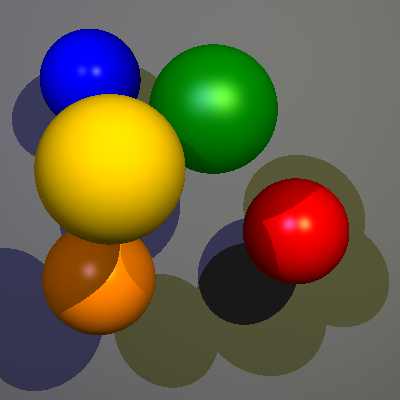
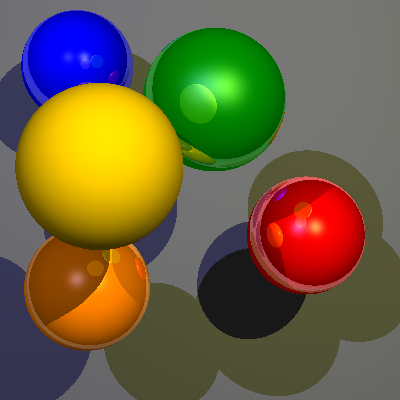
YAML Parsing and camera fixes

diff --git a/scene.cpp b/scene.cpp
@@ -174,47 +174,7 @@ void Scene::render(Image &img, string mode)
 {
     int w = img.width();
     int h = img.height();
-    if (mode == "phong")
-    {
-        if (antiAliasingEnabled)
-        {
-            for (int y = 0; y < h; y++)
-            {
-                for (int x = 0; x < w; x++)
-                {
-                    Color pixelColor(0.0f,0.0f,0.0f);
-                    for(int subY = 0; subY < 4; subY++)
-                    {
-                        for(int subX = 0; subX < 4; subX++)
-                        {
-                            Point pixel(x+((double)subX/4), h-1-y+((double)subY/4), 0);
-                            Ray ray(eye, (pixel-eye).normalized());
-                            Color subColor = trace(ray, maxRecursionDepth);
-                            pixelColor = pixelColor + subColor;
-                        }
-                    }
-                    pixelColor = pixelColor/(double)16; //grid of 4x4
-                    pixelColor.clamp();
-                    img(x,y) = pixelColor;
-                }
-            }
-        }
-        else
-        {
-            for (int y = 0; y < h; y++)
-            {
-                for (int x = 0; x < w; x++)
-                {
-                    Point pixel(x+0.5, h-1-y+0.5, 0);
-                    Ray ray(eye, (pixel-eye).normalized());
-                    Color col = trace(ray, maxRecursionDepth);
-                    col.clamp();
-                    img(x,y) = col;
-                }
-            }
-        }
-    }
-    else if (mode == "zbuffer")
+    if (mode == "zbuffer")
     {
         initializeMinMaxT(w,h);
         for (int y = 0; y < h; y++)
@@ -243,17 +203,48 @@ void Scene::render(Image &img, string mode)
             }
         }
     }
-    else
+    else // Phong shading
     {
-        cout << "Testing camera view..." << endl;
-        for(int y = 0; y < h; y++)
+        if (mode != "phong")
+            cerr << "Warning: render mode is invalid! Default: phong." << endl;
+        for (int y = 0; y < h; y++)
         {
             for (int x = 0; x < w; x++)
             {
-                Ray ray(camera.getRay(x+0.5, h-1-y+0.5));
-                Color col = trace(ray);
-                col.clamp();
-                img(x,y) = col;
+                if (antiAliasingEnabled)
+                {
+                    Color pixelColor(0.0f,0.0f,0.0f);
+                    for(int subY = 0; subY < 4; subY++)
+                    {
+                        for(int subX = 0; subX < 4; subX++)
+                        {
+                            if (cameraIsSet)
+                            {
+                                Ray ray(camera.getRay(x+((double)subX/4), h-1-y+((double)subY/4)));
+                                Color subColor = trace(ray, maxRecursionDepth);
+                                pixelColor += subColor;
+                            }
+                            else
+                            {
+                                Point pixel(x+((double)subX/4), h-1-y+((double)subY/4));
+                                Ray ray(eye, (pixel-eye).normalized());
+                                Color subColor = trace(ray, maxRecursionDepth);
+                                pixelColor += subColor;
+                            }
+                        }
+                    }
+                    pixelColor = pixelColor/(double)16; //grid of 4x4
+                    pixelColor.clamp();
+                    img(x,y) = pixelColor;
+                }
+                else
+                {
+                    Point pixel(x+0.5, h-1-y+0.5, 0);
+                    Ray ray(eye, (pixel-eye).normalized());
+                    Color col = trace(ray, maxRecursionDepth);
+                    col.clamp();
+                    img(x,y) = col;
+                }
             }
         }
     }
@@ -317,8 +308,13 @@ void Scene::setEye(Triple e)
 void Scene::setCamera(Camera c)
 {
     camera.setEye(c.getEye());
-    camera.setViewDirection(c.getViewDirection());
+    camera.setLookPoint(c.getLookPoint());
     camera.setUpVector(c.getUpVector());
+}
+
+void Scene::setCameraFlag (bool state)
+{
+    cameraIsSet = state;
 }
 
 void Scene::setAntiAliasing(bool state)

diff --git a/raytracer.cpp b/raytracer.cpp
@@ -124,18 +124,6 @@ Light* Raytracer::parseLight(const YAML::Node& node)
     return new Light(position,color);
 }
 
-Camera* Raytracer::parseCamera(const YAML::Node& node)
-{
-    return new Camera (Point(200,200,1000), Vector(200,200,100), Vector(0,1,0));
-    Point eye;
-    node["eye"] >> eye;
-    Vector viewDir;
-    node["viewDirection"] >> viewDir;
-    Vector up;
-    node["up"] >> up;
-    //return new Camera(eye, viewDir, up);
-}
-
 /*
 * Read a scene from file
 */
@@ -168,9 +156,8 @@ bool Raytracer::readScene(const std::string& inputFilename)
                 const YAML::Node& renderMode = doc["RenderMode"];
                 render_mode = parseString(renderMode);
             } catch (exception) {
-                render_mode = "";
-                // TODO
-                cerr << "Warning: RenderMode not found or is invalid!" << endl;
+                cerr << "Warning: RenderMode not found! Default: phong" << endl;
+                render_mode = "phong";
             }
 
             try {
@@ -204,16 +191,18 @@ bool Raytracer::readScene(const std::string& inputFilename)
                 int maxRecursionDepth = parseInt(maxRecDepthNode);
                 scene->setMaxRecursionDepth(maxRecursionDepth);
             } catch (exception) {
-                cerr << "Warning: Reflection recursion depth invalid! Default: 2" << endl;
-                scene->setMaxRecursionDepth(2);
+                cerr << "Warning: Reflection recursion depth invalid! Default: 0" << endl;
+                scene->setMaxRecursionDepth(0);
             }
             
             try {
-                const YAML::Node& camera = doc["Camera"];
-                scene->setCamera(*parseCamera(camera));
-                
+                Triple eye(parseTriple(doc["CameraEye"]));
+                Triple lookPoint(parseTriple(doc["CameraLookPoint"]));
+                Triple upVector(parseTriple(doc["CameraUpVector"]));
+                scene->setCamera(*new Camera(eye, lookPoint, upVector));
             } catch (exception) {
-                cerr << "Warning: Camera parameters not set!" << endl;
+                cerr << "Warning: Camera parameters not set! Will use eye parameter." << endl;
+                scene->setCameraFlag(false);
             }
 
             // Read and parse the scene objects
@@ -227,12 +216,9 @@ bool Raytracer::readScene(const std::string& inputFilename)
             {
                 Object *obj = parseObject(*it);
                 // Only add object if it is recognized
-                if (obj)
-                {
+                if (obj) {
                     scene->addObject(obj);
-                }
-                else
-                {
+                } else {
                     cerr << "Warning: found object of unknown type, ignored." << endl;
                 }
             }

diff --git a/camera.cpp b/camera.cpp
@@ -13,9 +13,9 @@ void Camera::setEye(Triple e)
     eye = e;
 }
 
-void Camera::setViewDirection(Triple vD)
+void Camera::setLookPoint(Point lP)
 {
-    viewDirection = vD;
+    lookPoint = lP;
 }
 
 void Camera::setUpVector(Triple upV)
@@ -44,9 +44,9 @@ Triple Camera::getEye()
     return eye;
 }
 
-Triple Camera::getViewDirection()
+Triple Camera::getLookPoint()
 {
-    return viewDirection;
+    return lookPoint;
 }
 
 Triple Camera::getUpVector()
@@ -59,17 +59,17 @@ double Camera::pixelSize()
     return up.length();
 }
 
-Ray Camera:: getRay(int x, int y)
+Ray Camera:: getRay(double x, double y)
 {
     Vector E = eye;
-    Vector G = viewDirection - eye;
+    Vector G = lookPoint - eye;
     Vector U = up;
     double w = viewWidth * pixelSize();
     double h = viewHeight * pixelSize();
     
     Vector A = G.cross(U);
     Vector B = A.cross(G);
-    Vector M = viewDirection;
+    Vector M = lookPoint;
     Vector H = A * 0.5 * w / A.length();
     Vector V = B * 0.5 * h / B.length();
     double sx = x / viewWidth;

diff --git a/camera.h b/camera.h
@@ -16,23 +16,23 @@ class Camera
 {
 private:
     Point eye;
-    Vector viewDirection;
+    Point lookPoint;
     Vector up;
     double viewWidth=400, viewHeight=400;
 public:
     Camera() { };
-    Camera(Point eye, Vector viewDirection, Vector up) : eye(eye), viewDirection(viewDirection), up(up) { };
+    Camera(Point eye, Point lookPoint, Vector up) : eye(eye), lookPoint(lookPoint), up(up) { };
     void setEye(Triple e);
-    void setViewDirection(Triple vD);
+    void setLookPoint(Point lP);
     void setUpVector(Triple upV);
     void setViewSize(int w, int h);
     double getViewWidth();
     double getViewHeight();
     Triple getEye();
-    Triple getViewDirection();
+    Triple getLookPoint();
     Triple getUpVector();
     double pixelSize();
-    Ray getRay(int x, int y);
+    Ray getRay(double x, double y);
 };
 
 #endif

diff --git a/scene.h b/scene.h
@@ -33,6 +33,7 @@ private:
     Camera camera;
     bool antiAliasingEnabled = false;
     bool shadowsEnabled = false;
+    bool cameraIsSet = false;
     double min_t;
     double max_t;
     int maxRecursionDepth;
@@ -47,6 +48,7 @@ public:
     void addLight(Light *l);
     void setEye(Triple e);
     void setCamera(Camera c);
+    void setCameraFlag(bool state);
     double max (double x, double y);
     unsigned int getNumObjects() { return objects.size(); }
     unsigned int getNumLights() { return lights.size(); }
